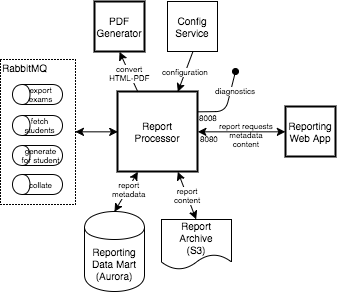
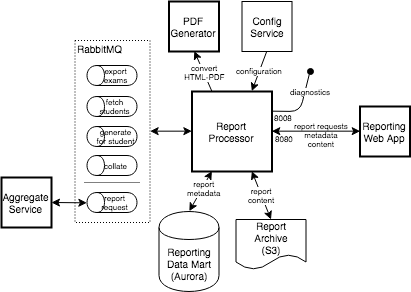
update runbook diagrams

Changed region(s): [[0.0, 0.0, 1.0, 1.0], [0.0, 0.2158, 0.1484, 0.2466], [0.178, 0.7397, 0.2077, 0.7705]]

diff --git a/docs/Runbook.md b/docs/Runbook.md
@@ -15,8 +15,9 @@
     * [Task Service](#task-service)
     * [Reporting Web App](#reporting-webapp)
     * [Reporting Service](#reporting-service)
-    * [Aggregate Service](#aggregate-service)
     * [Report Processor](#report-processor)
+    * [Aggregate Service](#aggregate-service)
+    * [Admin Service](#admin-service)
     * [PDF Generator](#pdf-generator)
 * [System Configuration](#system-configuration)
     * [Assessment Packages](#assessment-packages)
@@ -82,7 +83,7 @@ the off-heap is 150MB-240MB. The heap varies and is described for each service.
 
 The memory allocation is controlled by a few settings:
 * Heap size. This tells java how much memory to give the application. Every application has a default value but that may not be optimal for a specific environment. This is controlled by setting an environment variable recognized by the docker command, `MAX_HEAP_SIZE`, which should look like the java setting, e.g. `-Xmx500m`.
-* Container memory request/limit. This tells the orchestration framework how much memory to allow a pod. The framework will typically stop a pod that blows through that limit so it is important to coordinate this value with the heap size. A rule of thumb is to make the container limit a bit larger than the sum of the off-heap and max heap size. Obviously, if the framework is killing containers due to memory limits, this values should be increased.
+* Container memory request/limit. This tells the orchestration framework how much memory to allow a pod. The framework will typically stop a pod that blows through that limit so it is important to coordinate this value with the heap size. A rule of thumb is to make the container limit a bit larger than the sum of the off-heap and max heap size. Obviously, if the framework is killing containers due to memory limits, this value should be increased.
 * Java options. It is not recommended to use this except in extraordinary circumstances, but the docker image command recognizes the environment variable `JAVA_OPTS` and will add it to the java command line when starting the application.
 
 Together, these can be used to fine-tune memory utilization. As an example the following (contrived) snippet gives an application extra startup memory (initial heap size), larger max heap size, and more container memory:
@@ -247,6 +248,20 @@ The default max heap size is -Xmx384m and should be increased in all but the sma
 The [Sample Kubernetes Spec](../deploy/reporting-service.yml) runs a single replica with increased heap size and memory limit.
 
 
+<a name="report-processor"></a>
+## Report Processor
+This processor generates reports. It is horizontally scalable and many instances should be run to deal with reporting load.
+
+![Report Processor](report-processor.png)
+
+#### Configuration
+The [Annotated Configuration](../config/rdw-reporting-report-processor.yml) describes the properties and their effects.
+
+#### Deployment Spec
+The default max heap size is -Xmx384m and should be increased in all but the smallest environments (very large, multi-student PDF reports may cause memory pressure). The off-heap overhead is about 240MB so the container should have a memory limit of about 650M.
+The [Sample Kubernetes Spec](../deploy/report-processor-service.yml) runs two replicas with increased heap size and memory limit.
+
+
 <a name="aggregate-service"></a>
 ## Aggregate Service
 This service provides the back-end API for reports against the OLAP data store, i.e. aggregate reports. It is horizontally scalable; however, the OLAP data store is typically the bottleneck and running many instances of this service may not result in better overall throughput.
@@ -275,21 +290,7 @@ The default max heap size is -Xmx384m which should be fine for most environments
 The [Sample Kubernetes Spec](../deploy/admin-service.yml) runs a single replica.
 
 
-<a name="report-processor"></a>
-## Report Processor
-This processor generates reports. It is horizontally scalable and many instances should be run to deal with reporting load.
-
-![Report Processor](report-processor.png)
-
-#### Configuration
-The [Annotated Configuration](../config/rdw-reporting-report-processor.yml) describes the properties and their effects.
-
-#### Deployment Spec
-The default max heap size is -Xmx384m and should be increased in all but the smallest environments (very large, multi-student PDF reports may cause memory pressure). The off-heap overhead is about 240MB so the container should have a memory limit of about 650M.
-The [Sample Kubernetes Spec](../deploy/report-processor-service.yml) runs two replicas with increased heap size and memory limit.
-
-
-<a name="reporting-webapp"></a>
+<a name="pdf-generator"></a>
 ## PDF Generator
 This application converts HTML to PDF. It is used by the report processor. It is horizontally scalable and many instances should be run to deal with reporting load. Note the PDF generator is not a Spring Boot application: it doesn't use the central configuration server, it doesn't have the same actuator end-points, and logging is different.
 
